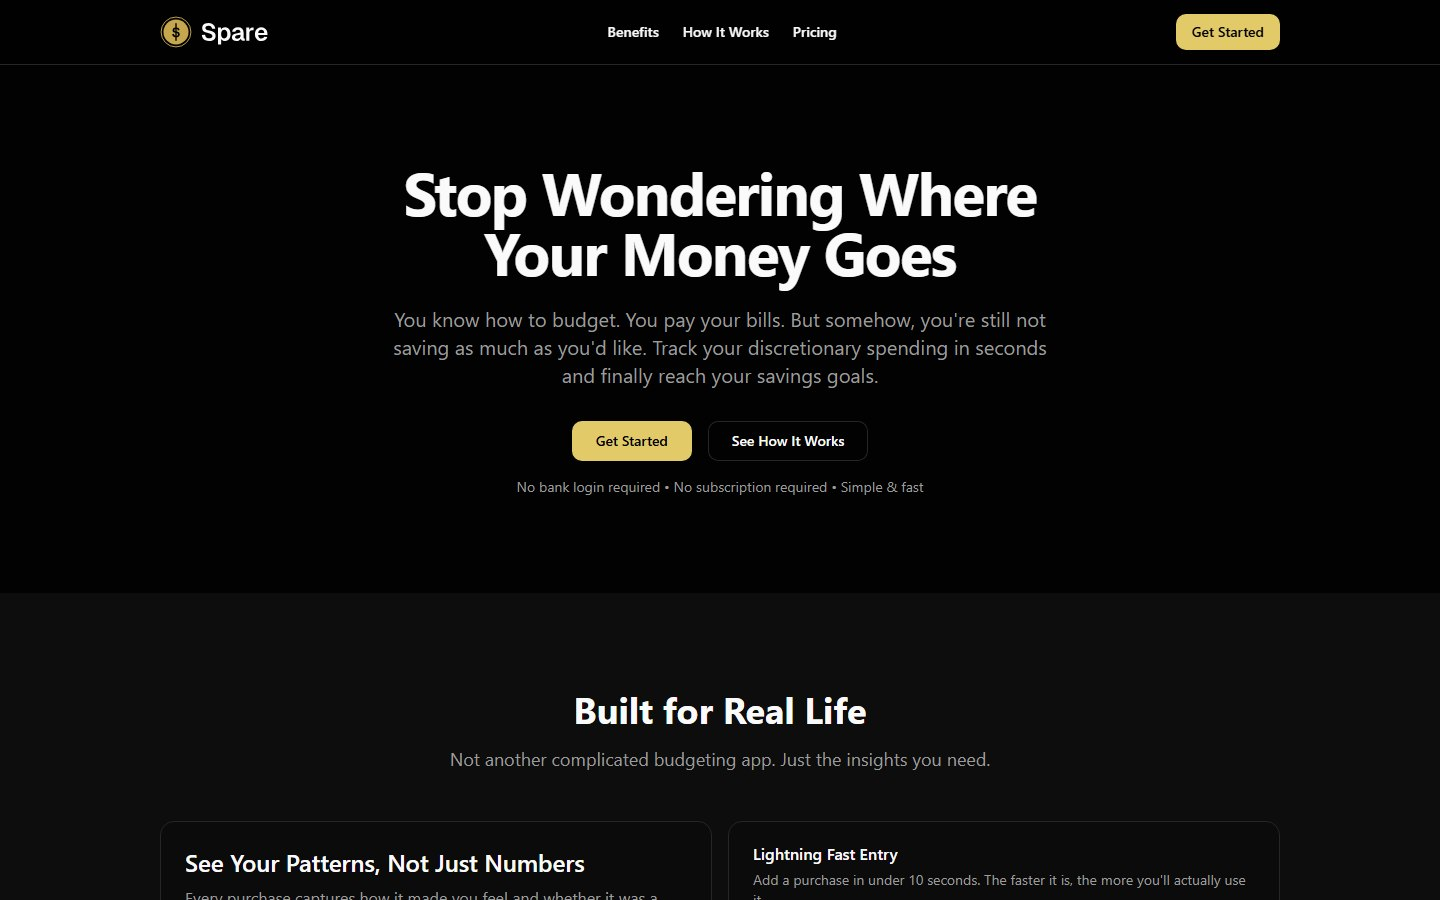
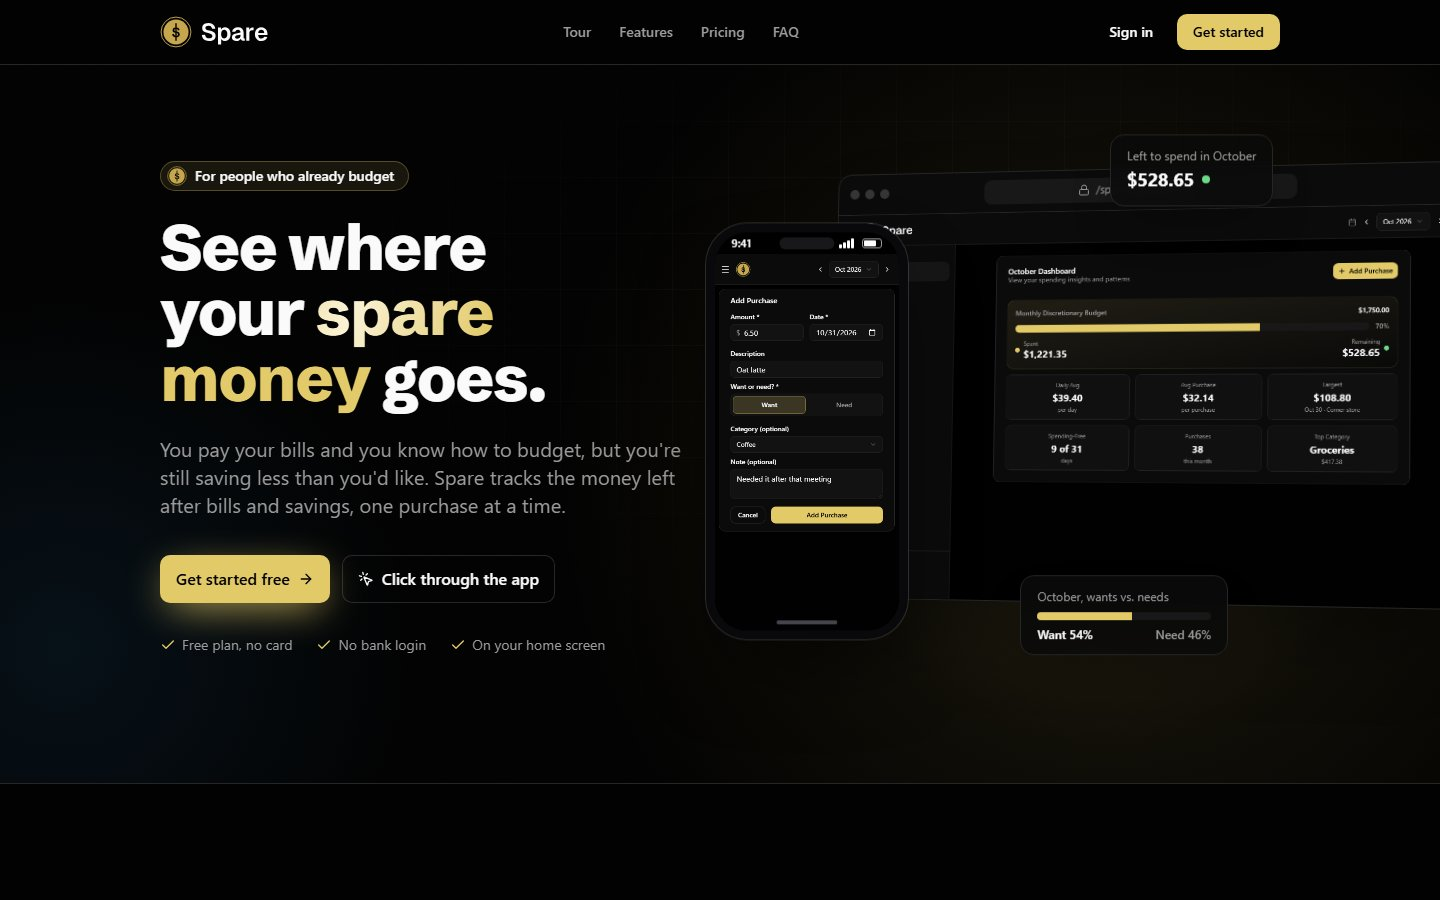
Refresh Spare and Vent screenshots; match /projects showcase to home
- Re-capture spare-0.jpg and vent-0.jpg from the redesigned live landing
  pages (1440x900, same framing as before) and update their hero alt text.
- Add Vent to the /projects showcase so it lists the same four projects as
  the home page; lay the four cards out as a 2x2 .grid-2.
- CLAUDE.md: note that both showcases stay in sync and that thumbnails are
  live-site captures to re-take when a site changes.

diff --git a/projects/index.html b/projects/index.html
@@ -36,10 +36,11 @@
         <span class="eyebrow">Featured</span>
         <h2>The showcase.</h2>
       </div>
-      <div class="grid-3">
+      <div class="grid-2">
         <a class="card" href="chain.html"><img src="../assets/images/chain/chain-0.jpg" alt="Chain’s opening walkthrough"><span class="num">004 · Jul 2026 · Next.js · TypeScript</span><h3>Chain</h3><p>A daily word game. Link words end to start until you’ve used every letter on the board. Everyone gets the same puzzles and there is no server.</p><span class="cta">Read the story →</span></a>
         <a class="card" href="rep-zero.html"><img src="../assets/images/rep-zero/rep-zero-0.jpg" alt="Rep Zero landing page"><span class="num">005 · Sep 2026 · React · PWA</span><h3>Rep Zero</h3><p>A lifting tracker you install from Safari. Works with no signal, keeps everything on the phone.</p><span class="cta">Read the story →</span></a>
         <a class="card" href="spare.html"><img src="../assets/images/spare/spare-0.jpg" alt="Spare landing page"><span class="num">003 · Nov 2025 · Next.js · Supabase</span><h3>Spare</h3><p>A spending tracker with no bank sync. You type each purchase in, and note how it felt.</p><span class="cta">Read the story →</span></a>
+        <a class="card" href="vent.html"><img src="../assets/images/vent/vent-0.jpg" alt="Vent landing page"><span class="num">002 · Jul 2023 · Next.js · Supabase</span><h3>Vent</h3><p>Parts, mods, fill-ups and loan payments for every car in your garage, and what they add up to.</p><span class="cta">Read the story →</span></a>
       </div>
     </div>
   </section>

diff --git a/projects/spare.html b/projects/spare.html
@@ -48,7 +48,7 @@
         <div><dt>Site</dt><dd><a href="https://discretionary-spending.vercel.app">discretionary-spending.vercel.app →</a></dd></div>
       </dl>
       <figure class="hero-figure">
-        <img src="../assets/images/spare/spare-0.jpg" alt="Spare’s landing page: “Stop wondering where your money goes”">
+        <img src="../assets/images/spare/spare-0.jpg" alt="Spare’s landing page: “See where your spare money goes” beside the app on a phone and a laptop">
         <figcaption>The landing page.</figcaption>
       </figure>
     </div>

diff --git a/projects/vent.html b/projects/vent.html
@@ -48,7 +48,7 @@
         <div><dt>Site</dt><dd><a href="https://vent-tool.vercel.app">vent-tool.vercel.app →</a></dd></div>
       </dl>
       <figure class="hero-figure">
-        <img src="../assets/images/vent/vent-0.jpg" alt="Vent’s landing page: keep your vehicle running longer, for less">
+        <img src="../assets/images/vent/vent-0.jpg" alt="Vent’s landing page: “Every repair, part and fill-up, and what it all costs” beside an example garage">
         <figcaption>The landing page.</figcaption>
       </figure>
     </div>

diff --git a/CLAUDE.md b/CLAUDE.md
@@ -32,7 +32,7 @@ three.js is loaded from jsdelivr through an import map in each page that needs i
 ## Conventions
 
 - **Nav and footer are duplicated per page** (`index.html`, `about.html`, `design.html`, `projects/*.html`). Nav is Projects · About · Contact; Projects goes to `projects/`, About to `about.html`, Contact to the home page section (`index.html#contact`). Change all copies together.
-- **Adding a project**: images under `assets/images/<slug>/`; copy `projects/terminal.html` to `projects/<slug>.html` (eyebrow `PROJECT NNN — BUILD · MON YYYY`, meta, story sectors, "Try it", pager); add a row to the log in `projects/index.html` and, if recent, to the home log; add a featured card on the home page and `projects/index.html` if it is showcase-worthy.
+- **Adding a project**: images under `assets/images/<slug>/`; copy `projects/terminal.html` to `projects/<slug>.html` (eyebrow `PROJECT NNN — BUILD · MON YYYY`, meta, story sectors, "Try it", pager); add a row to the log in `projects/index.html` and, if recent, to the home log; add a featured card on the home page and `projects/index.html` if it is showcase-worthy. Both showcases list the same projects (home: one `.feature` + a 3-card `.grid`; `projects/index.html`: a 2×2 `.grid-2`), so change them together. Card thumbnails are 1440×900 captures of the live landing page; when a project's site changes, re-capture `-0.jpg` and update its alt text.
 - **Voice**: interest, not hustle — the site is about things built because they were interesting, never “nights and weekends” or “after hours”.
 - **Design rules live in `design.html`** — one amber accent, mono eyebrows, condensed display type, square corners, hairlines not shadows, no invented facts (unknowns stay as visible `[BRACKETS]`). Read it before restyling anything.
 - **Home page scroll** drives the car by distance in either direction (odometer): scroll banks distance and the car drives it off at a steady cruise speed with short accel/brake ramps (`state.drive` in `scene.js`; backlog past `maxLag` is dropped), so scroll speed never sets car speed; the camera aims in the car's own frame so it never looks backward. In-page links ride to their target and any user input cancels the ride. Defaults: 16:00, rain 15%, grain 65%, soft 10%, helmet cam (the only camera).
